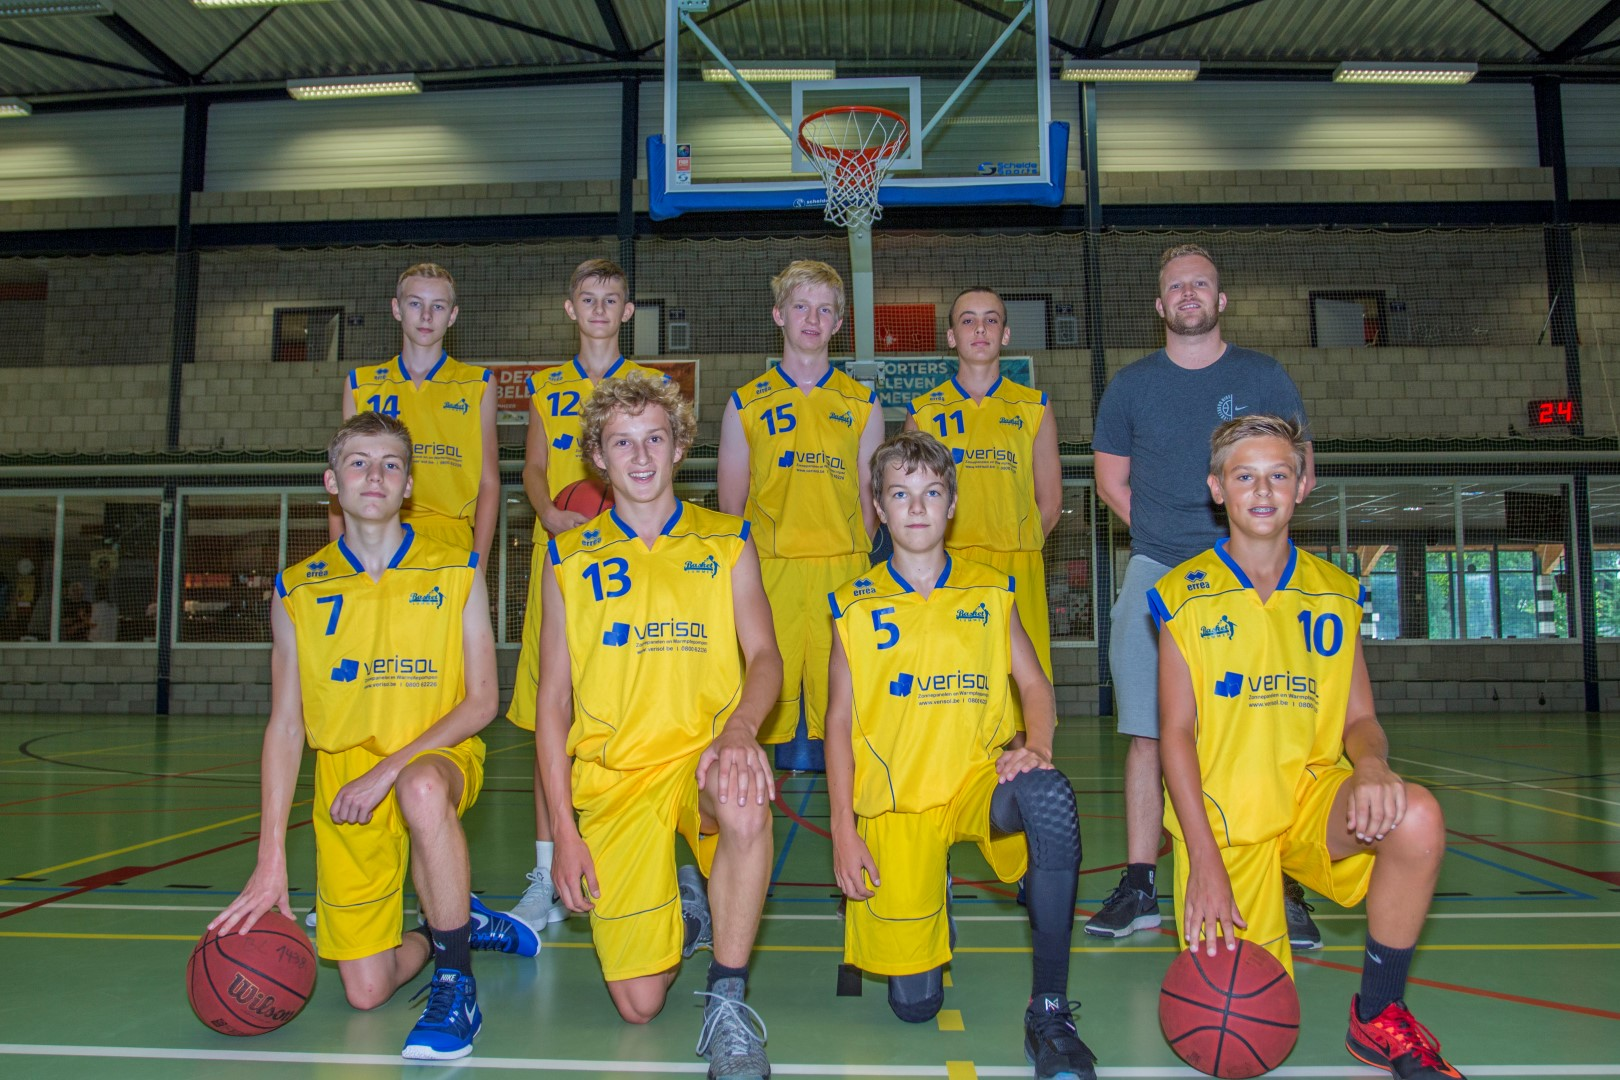
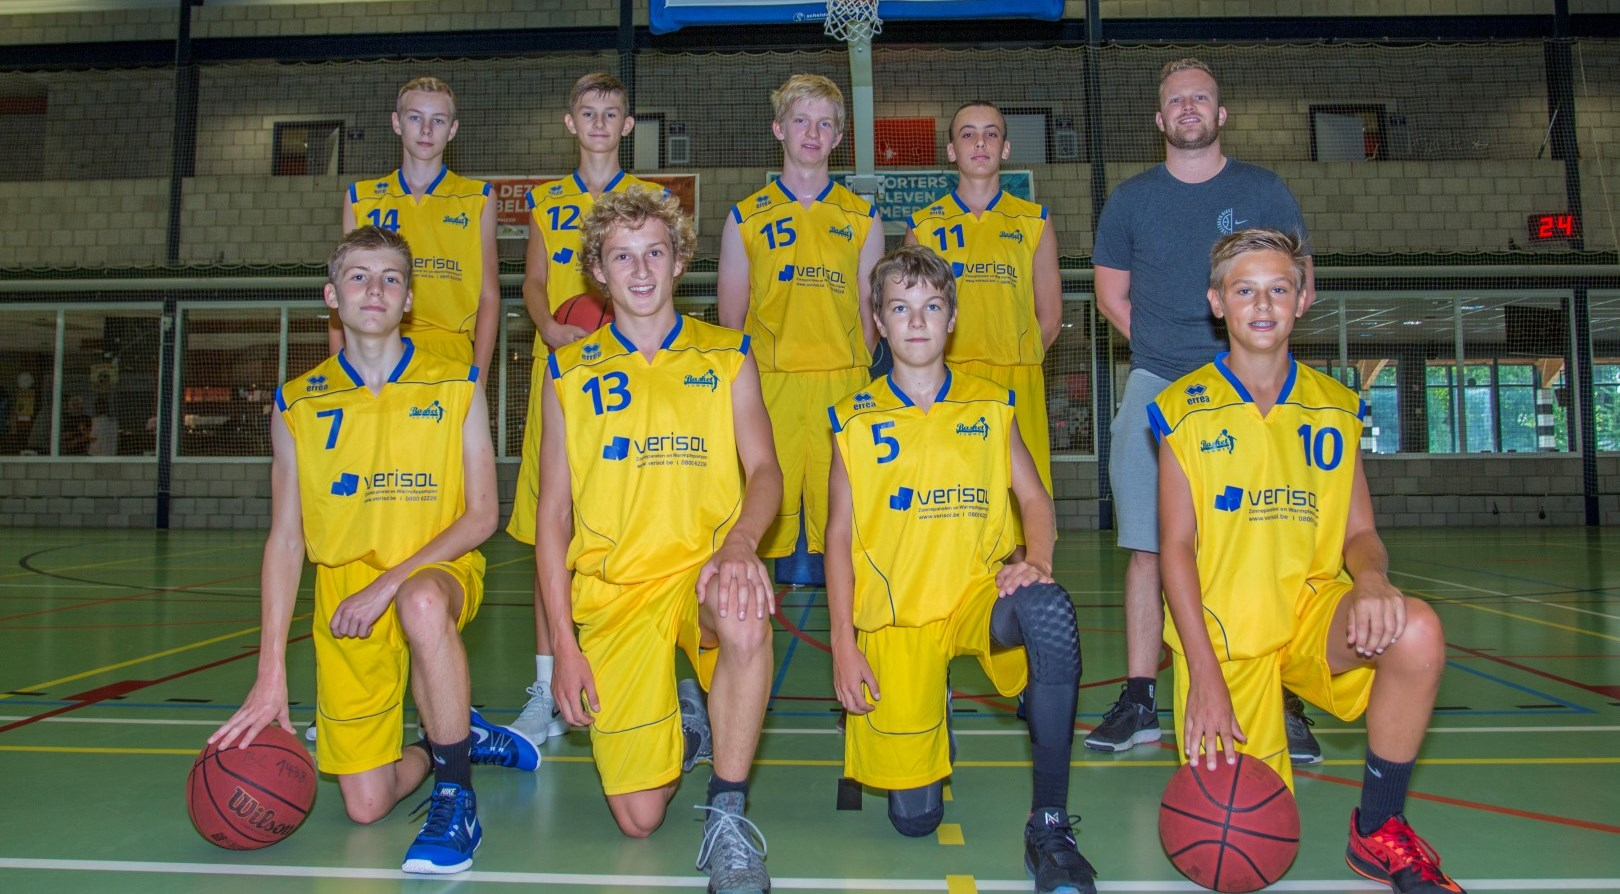
more team image tuning

diff --git a/_site/css/layout.css b/_site/css/layout.css
@@ -49,7 +49,7 @@
 
 /* carousel */
 .carousel, .team-photo {
-  height: 60vh;
+  height: 70vh;
   margin-top: -3vw;
 }
 
@@ -67,7 +67,7 @@
 
 /* Declare heights because of positioning of img element */
 .carousel .item, .team-photo {
-  height: 60vh;
+  height: 70vh;
 }
 .carousel-inner > .item > img{
   min-width: 2000px;

diff --git a/css/layout.css b/css/layout.css
@@ -49,7 +49,7 @@
 
 /* carousel */
 .carousel, .team-photo {
-  height: 60vh;
+  height: 70vh;
   margin-top: -3vw;
 }
 
@@ -67,7 +67,7 @@
 
 /* Declare heights because of positioning of img element */
 .carousel .item, .team-photo {
-  height: 60vh;
+  height: 70vh;
 }
 .carousel-inner > .item > img{
   min-width: 2000px;
